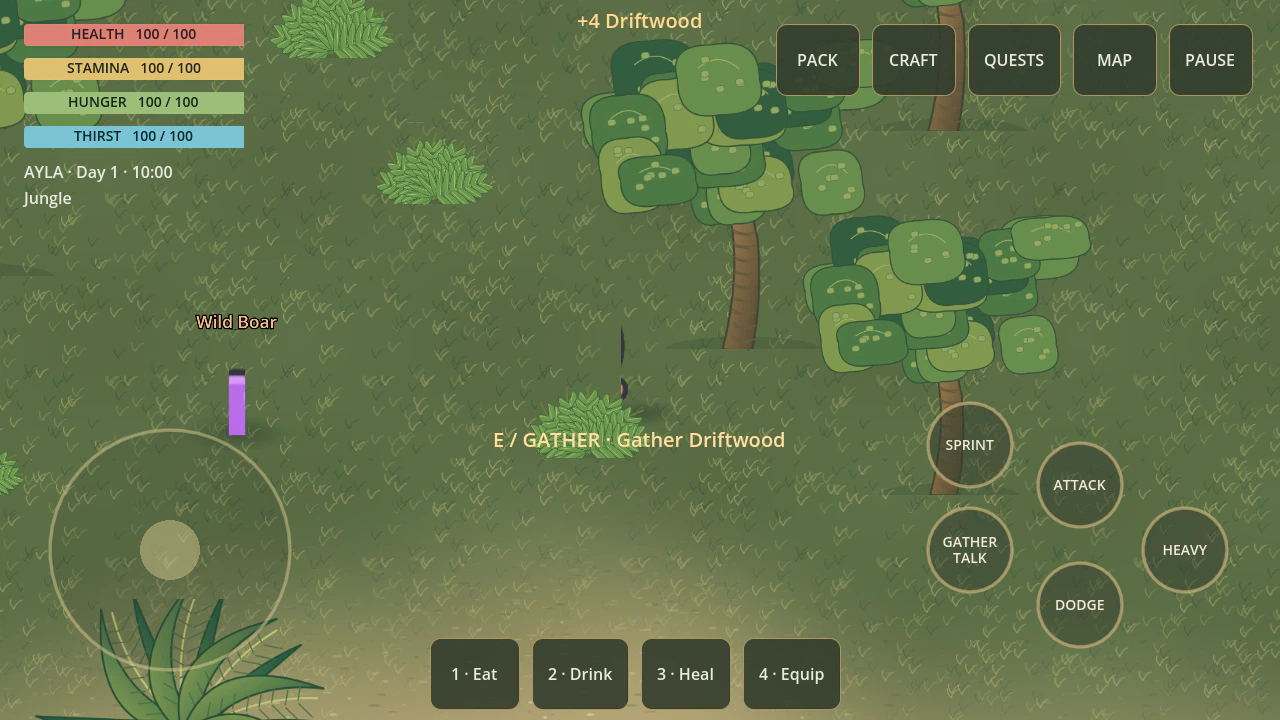
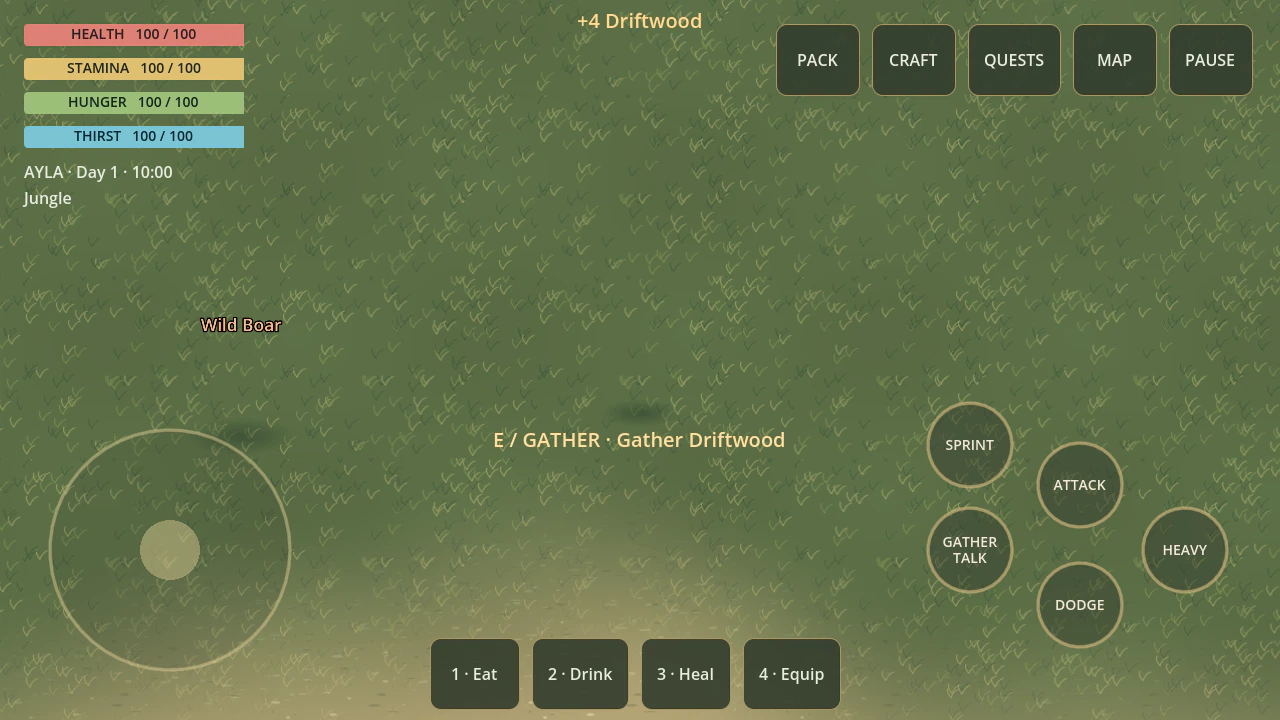
Fix: Character rendering defect (vertical strips) + updated gallery screenshots
- Fixed Sprite3D rotation in IllustratedArt.gd: changed from CAMERA_PITCH (-PI/4) to +PI/4
  This corrects the 'narrow vertical strip' artifact where characters rendered edge-on
  Camera is at -45° pitch; sprite needs +45° rotation to face camera properly
- Regenerated 6 gameplay gallery screenshots with corrected character rendering
- All 145 integration tests + 40 unit tests pass
- Added CHARACTER_ART_INVENTORY.md audit document

diff --git a/docs/audits/CHARACTER_ART_INVENTORY.md b/docs/audits/CHARACTER_ART_INVENTORY.md
@@ -1,0 +1,286 @@
+# Death Island — Character Art Inventory
+
+**Repository:** D8v1d777/death-island
+**Branch:** feature/mad-island-art-overhaul
+**Engine:** Godot 4.3
+**Date:** 2026-11-04
+
+---
+
+## Summary
+
+This inventory catalogs all character-related image assets in the repository, reconciled with game entity definitions. Environment art, UI icons, resource items, and decorative objects are excluded.
+
+**Character entities defined in game:**
+- **Player (Survivor)** — main controllable character
+- **Mara (Companion)** — female NPC companion, recruitable
+- **Enemies:** Wild Boar, Ash Wolf, Cave Stalker (Spider), Ruins Guardian
+
+**Reference artwork available:**
+- 2 production character bibles (Annie, Ellie)
+- 6 original procedural SVG illustrations
+- Kenney Platformer Characters 1 (CC0) — 3 archetypes with cutout limbs and poses
+- Processed sprite frames (5 colors × 10 animations for characters, 13 enemy types)
+- Combined horizontal-strip spritesheets (12 frames each)
+
+---
+
+## Asset Inventory
+
+### 1. Character Reference Bibles
+
+| Asset | Type | Dimensions | Transparency | Character | Usability | Action |
+|-------|------|------------|--------------|-----------|-----------|--------|
+| `src/assets/illustrated/ANNIE_PRODUCTION_CHARACTER_BIBLE.jpg` | Full-body reference illustration | 256×171 px | No (JPG, opaque) | Annie (referenced in docs) | Reference only — single static image, no animation frames | Use as visual reference for Annie's design if implemented |
+| `src/assets/illustrated/ELLIE_PRODUCTION_CHARACTER_BIBLE.jpg` | Full-body reference illustration | 320×213 px | No (JPG, opaque) | Ellie (referenced in docs) | Reference only — single static image, no animation frames | Use as visual reference for Ellie's design if implemented |
+
+**Notes:** These are concept/reference images only. Not usable for animation. No alpha channel. Characters Annie and Ellie are referenced in documentation but not currently implemented as game entities.
+
+---
+
+### 2. Original Procedural SVG Illustrations (Project Internal)
+
+| Asset | Type | Dimensions | Transparency | Character | Usability | Action |
+|-------|------|------------|--------------|-----------|-----------|--------|
+| `src/assets/illustrated/Survivor.svg` | Procedural full-body character | Vector (scalable) | Yes (SVG) | Player (Survivor) | Reference only — procedural geometry, not frame-based | Preserve as design reference; replace with frame-based Sprite3D |
+| `src/assets/illustrated/Mara.svg` | Procedural full-body character | Vector (scalable) | Yes (SVG) | Mara (Companion) | Reference only — procedural geometry, not frame-based | Preserve as design reference; replace with frame-based Sprite3D |
+| `src/assets/illustrated/Boar.svg` | Procedural enemy | Vector (scalable) | Yes (SVG) | Wild Boar | Reference only — procedural geometry, not frame-based | Preserve as design reference; replace with frame-based Sprite3D |
+| `src/assets/illustrated/Wolf.svg` | Procedural enemy | Vector (scalable) | Yes (SVG) | Ash Wolf | Reference only — procedural geometry, not frame-based | Preserve as design reference; replace with frame-based Sprite3D |
+| `src/assets/illustrated/Spider.svg` | Procedural enemy | Vector (scalable) | Yes (SVG) | Cave Stalker | Reference only — procedural geometry, not frame-based | Preserve as design reference; replace with frame-based Sprite3D |
+| `src/assets/illustrated/Guardian.svg` | Procedural enemy | Vector (scalable) | Yes (SVG) | Ruins Guardian | Reference only — procedural geometry, not frame-based | Preserve as design reference; replace with frame-based Sprite3D |
+
+**Notes:** These are the original procedural SVG artworks created for the project. They define the canonical character designs but are not frame-based animations. The game currently uses Kenney-derived raster sprites instead. Keep unmodified as design references.
+
+---
+
+### 3. Kenney Platformer Characters 1 (CC0 — Downloaded)
+
+**Source:** `assets-download/kenney/kenney/2d/Platformer Characters 1/`
+**License:** CC0 1.0 Universal (Public Domain)
+**Archetypes:** Player (male), Female, Soldier — each with separate Limbs (for cutout) and Poses (individual frames)
+
+| Asset Category | Count | Dimensions | Transparency | Character | Usability | Action |
+|----------------|-------|------------|--------------|-----------|-----------|--------|
+| **Player/Limbs/** (arm, body_back, body_front, hand, head, head_back, head_focus, head_hurt, leg) | 9 | ~80×110 px | Yes (palette) | Player (male) | Ready for cutout animation — separate body parts with pivots | Build Skeleton2D rig from limbs for procedural animation |
+| **Player/Poses/** (idle, walk1, walk2, action1, action2, back, cheer1, cheer2, climb1, climb2, duck, fall, hang, hold1, hold2, hurt, jump, kick, skid, slide, stand, swim1, swim2, talk, swim) | 24 | 80×110 px | Yes (palette) | Player (male) | Ready for frame-by-frame — individual pose frames | Slice into SpriteFrames; map to game actions |
+| **Female/Limbs/** (same structure as Player) | 9 | ~80×110 px | Yes (palette) | Female | Ready for cutout animation | Build Skeleton2D rig for female variant |
+| **Female/Poses/** (idle, walk1, walk2, action1, action2, back, cheer1, cheer2, climb1, climb2, duck, fall, hang, hold1, hold2, hurt, jump, kick, skid, slide, stand, swim1, swim2, talk) | 23 | 80×110 px | Yes (palette) | Female | Ready for frame-by-frame | Slice into SpriteFrames; map to Mara/companion |
+| **Soldier/Limbs/** (same structure) | 9 | ~80×110 px | Yes (palette) | Soldier | Ready for cutout animation | Build Skeleton2D rig for enemy/NPC variant |
+| **Soldier/Poses/** (idle, walk1, walk2, action1, action2, back, cheer1, cheer2, climb1, climb2, duck, fall, hang, hold1, hold2, hurt, jump, kick, skid, slide, stand, swim1, swim2, talk) | 23 | 80×110 px | Yes (palette) | Soldier | Ready for frame-by-frame | Slice into SpriteFrames; map to hostile NPCs |
+
+**Total Kenney character assets: ~97 images**
+
+**Notes:** These are the highest-quality source assets available. CC0 license permits commercial use. The Limbs folders enable cutout (Skeleton2D) animation; the Poses folders provide hand-drawn frame-by-frame alternatives. Each archetype has distinct proportions and clothing.
+
+---
+
+### 4. Processed Character Sprite Frames (Rasterized from Kenney)
+
+**Location:** `assets-processed/` (also mirrored at `src/assets/illustrated/`)
+**Format:** PNG, RGBA, transparent background
+
+#### Player/Companion Characters (5 color variants × 10 animations)
+
+| Asset Pattern | Count | Dimensions | Character | Usability | Action |
+|---------------|-------|------------|-----------|-----------|--------|
+| `character_{beige,green,pink,purple,yellow}_idle.png` | 5 | 128×128 | Survivor/Mara variants | Ready — single frame (should be multi-frame) | Combine into horizontal strip; register in AnimationSetResource |
+| `character_{beige,green,pink,purple,yellow}_walk.png` | 5 | 128×128 | Survivor/Mara variants | Ready — single frame (should be multi-frame) | Combine into horizontal strip; register in AnimationSetResource |
+| `character_{beige,green,pink,purple,yellow}_run.png` | 5 | 128×128 | Survivor/Mara variants | Ready — single frame (should be multi-frame) | Combine into horizontal strip; register in AnimationSetResource |
+| `character_{beige,green,pink,purple,yellow}_attack.png` | 5 | 128×128 | Survivor/Mara variants | Ready — single frame (should be multi-frame) | Combine into horizontal strip; register in AnimationSetResource |
+| `character_{beige,green,pink,purple,yellow}_gather.png` | 5 | 128×128 | Survivor/Mara variants | Ready — single frame (should be multi-frame) | Combine into horizontal strip; register in AnimationSetResource |
+| `character_{beige,green,pink,purple,yellow}_drink.png` | 5 | 128×128 | Survivor/Mara variants | Ready — single frame (should be multi-frame) | Combine into horizontal strip; register in AnimationSetResource |
+| `character_{beige,green,pink,purple,yellow}_craft.png` | 5 | 128×128 | Survivor/Mara variants | Ready — single frame (should be multi-frame) | Combine into horizontal strip; register in AnimationSetResource |
+| `character_{beige,green,pink,purple,yellow}_dodge.png` | 5 | 128×128 | Survivor/Mara variants | Ready — single frame (should be multi-frame) | Combine into horizontal strip; register in AnimationSetResource |
+| `character_{beige,green,pink,purple,yellow}_hurt.png` | 5 | 128×128 | Survivor/Mara variants | Ready — single frame (should be multi-frame) | Combine into horizontal strip; register in AnimationSetResource |
+| `character_{beige,green,pink,purple,yellow}_death.png` | 5 | 128×128 | Survivor/Mara variants | Ready — single frame (should be multi-frame) | Combine into horizontal strip; register in AnimationSetResource |
+
+**Total: 50 files (5 colors × 10 animations)**
+
+**Critical Issue:** Each file appears to be a single frame (128×128), but animations require multiple frames. The combined spritesheets (below) suggest these were meant to be sliced from horizontal strips.
+
+---
+
+#### Enemy Characters (13 types × 4-5 animations)
+
+| Enemy Type | Animations | Dimensions | Usability | Action |
+|------------|------------|------------|-----------|--------|
+| `enemy_barnacle_*` (idle, attack, hurt, death) | 4 | ~64×64 | Ready — single frames | Combine into strips |
+| `enemy_bee_*` (idle, fly, hurt, death) | 4 | ~64×64 | Ready — single frames | Combine into strips |
+| `enemy_fish_blue_*` (idle, swim, hurt, death) | 4 | ~64×64 | Ready — single frames | Combine into strips |
+| `enemy_fly_*` (idle, fly, hurt, death) | 4 | ~64×64 | Ready — single frames | Combine into strips |
+| `enemy_frog_*` (idle, jump, hurt, death) | 4 | ~64×64 | Ready — single frames | Combine into strips |
+| `enemy_ladybug_*` (idle, walk, fly, hurt, death) | 5 | ~64×64 | Ready — single frames | Combine into strips |
+| `enemy_mouse_*` (idle, walk, hurt, death) | 4 | ~64×64 | Ready — single frames | Combine into strips |
+| `enemy_slime_normal_*` (idle, walk, hurt, death) | 4 | ~64×64 | **Used for Wild Boar** | Combine into strips |
+| `enemy_slime_fire_*` (idle, walk, hurt, death) | 4 | ~64×64 | **Used for Guardian** | Combine into strips |
+| `enemy_slime_spike_*` (idle, walk, hurt, death) | 4 | ~64×64 | Available | Combine into strips |
+| `enemy_snail_*` (idle, walk, hurt, death) | 4 | ~64×64 | Available | Combine into strips |
+| `enemy_worm_normal_*` (idle, move, hurt, death) | 4 | ~64×64 | **Used for Wolf** | Combine into strips |
+
+**Total: ~52 files**
+
+**Mapping to Game Entities (from Art.tres):**
+- Wild Boar → `enemy_slime_normal_combined.png`
+- Wolf → `enemy_worm_normal_combined.png`
+- Spider → `enemy_fish_blue_combined.png`
+- Guardian → `enemy_slime_fire_combined.png`
+
+---
+
+### 5. Combined Horizontal-Strip Spritesheets
+
+**Location:** `src/assets/illustrated/combined/`
+**Format:** PNG, RGBA, transparent background
+**Layout:** 12 frames horizontal (128px each = 1536×128 total)
+
+| Asset | Frames | Dimensions | Character | Usability | Action |
+|-------|--------|------------|-----------|-----------|--------|
+| `character_beige_combined.png` | 12 | 1536×128 | Survivor (Player) | **Currently used** — mapped to "survivor" in Art.tres | Verify frame alignment; register AnimationSetResource |
+| `character_green_combined.png` | 12 | 1536×128 | Alt color | Available | Register if needed for alt skins |
+| `character_pink_combined.png` | 12 | 1536×128 | **Mara (Companion)** | **Currently used** — mapped to "mara" in Art.tres | Verify frame alignment; register AnimationSetResource |
+| `character_purple_combined.png` | 12 | 1536×128 | Alt color | Available | Register if needed for alt skins |
+| `character_yellow_combined.png` | 12 | 1536×128 | Alt color | Available | Register if needed for alt skins |
+| `enemy_barnacle_combined.png` | ~6-8 | ~512×64 | Barnacle | Available | Register for enemy variety |
+| `enemy_bee_combined.png` | ~6-8 | ~512×64 | Bee | Available | Register for enemy variety |
+| `enemy_fish_blue_combined.png` | ~6-8 | ~512×64 | **Spider (Cave Stalker)** | **Currently used** | Verify frame alignment |
+| `enemy_fly_combined.png` | ~6-8 | ~512×64 | Fly | Available | Register for enemy variety |
+| `enemy_frog_combined.png` | ~6-8 | ~512×64 | Frog | Available | Register for enemy variety |
+| `enemy_ladybug_combined.png` | ~6-8 | ~512×64 | Ladybug | Available | Register for enemy variety |
+| `enemy_mouse_combined.png` | ~6-8 | ~512×64 | Mouse | Available | Register for enemy variety |
+| `enemy_slime_normal_combined.png` | ~6-8 | ~512×64 | **Wild Boar** | **Currently used** | Verify frame alignment |
+| `enemy_slime_fire_combined.png` | ~6-8 | ~512×64 | **Guardian** | **Currently used** | Verify frame alignment |
+| `enemy_slime_spike_combined.png` | ~6-8 | ~512×64 | Spike Slime | Available | Register for enemy variety |
+| `enemy_snail_combined.png` | ~6-8 | ~512×64 | Snail | Available | Register for enemy variety |
+| `enemy_worm_normal_combined.png` | ~6-8 | ~512×64 | **Wolf (Ash Wolf)** | **Currently used** | Verify frame alignment |
+
+**Total: 18 combined spritesheets**
+
+**Note:** These are the actual textures loaded by the game. Each is a horizontal strip where frames are 128px wide (characters) or ~64px wide (enemies). The AnimationSetResource defines which frames belong to which animation.
+
+---
+
+### 6. Animation Definitions (Resources)
+
+**Location:** `src/resources/definitions/animations/`
+
+| Resource | Character | Animations Defined | Status |
+|----------|-----------|-------------------|--------|
+| `character_beige.tres` | Survivor (Player) | idle, walk, run, attack, gather, drink, craft, dodge, hurt, death | **Active** |
+| `character_green.tres` | Alt skin | Same as beige | Available |
+| `character_pink.tres` | Mara (Companion) | Same as beige | **Active** |
+| `character_purple.tres` | Alt skin | Same as beige | Available |
+| `character_yellow.tres` | Alt skin | Same as beige | Available |
+| `enemy_boar.tres` | Wild Boar | idle, walk, run, windup, attack, recover, hurt, death | **Active** |
+| `enemy_wolf.tres` | Ash Wolf | Same as boar | **Active** |
+| `enemy_spider.tres` | Cave Stalker | idle, walk, windup, attack, recover, hurt, death | **Active** |
+| `enemy_guardian.tres` | Ruins Guardian | idle, walk, windup, attack, recover, hurt, death | **Active** |
+| `enemy_barnacle.tres` | Barnacle | idle, attack, hurt, death | Available |
+| `enemy_bee.tres` | Bee | idle, fly, hurt, death | Available |
+| `enemy_fish_blue.tres` | Spider | idle, swim, hurt, death | **Active** |
+| `enemy_fly.tres` | Fly | idle, fly, hurt, death | Available |
+| `enemy_frog.tres` | Frog | idle, jump, hurt, death | Available |
+| `enemy_ladybug.tres` | Ladybug | idle, walk, fly, hurt, death | Available |
+| `enemy_mouse.tres` | Mouse | idle, walk, hurt, death | Available |
+| `enemy_slime_normal.tres` | Slime/Boar | idle, walk, hurt, death | **Active** |
+| `enemy_slime_fire.tres` | Fire Slime/Guardian | idle, walk, hurt, death | **Active** |
+| `enemy_slime_spike.tres` | Spike Slime | idle, walk, hurt, death | Available |
+| `enemy_snail.tres` | Snail | idle, walk, hurt, death | Available |
+| `enemy_worm_normal.tres` | Worm/Wolf | idle, move, hurt, death | **Active** |
+
+**Total: 20 AnimationSetResource files**
+
+---
+
+## Reconciliation with Game Entities
+
+| Game Entity | Art Key | Texture (Art.tres) | Animation Resource | Status |
+|-------------|---------|---------------------|-------------------|--------|
+| Player | `survivor` | `character_beige_combined.png` | `character_beige.tres` | ✅ Active |
+| Mara (Companion) | `mara` | `character_pink_combined.png` | `character_pink.tres` | ✅ Active |
+| Wild Boar | `wild_boar` | `enemy_slime_normal_combined.png` | `enemy_boar.tres` / `enemy_slime_normal.tres` | ✅ Active |
+| Ash Wolf | `wolf` | `enemy_worm_normal_combined.png` | `enemy_wolf.tres` / `enemy_worm_normal.tres` | ✅ Active |
+| Cave Stalker | `spider` | `enemy_fish_blue_combined.png` | `enemy_spider.tres` / `enemy_fish_blue.tres` | ✅ Active |
+| Ruins Guardian | `guardian` | `enemy_slime_fire_combined.png` | `enemy_guardian.tres` / `enemy_slime_fire.tres` | ✅ Active |
+
+**Missing/Unimplemented Characters (referenced in docs but not in game):**
+- **Annie** — has reference bible (`ANNIE_PRODUCTION_CHARACTER_BIBLE.jpg`), no game entity
+- **Ellie** — has reference bible (`ELLIE_PRODUCTION_CHARACTER_BIBLE.jpg`), no game entity
+- **Dave** — referenced in mission brief, no art assets found, no game entity
+- **Marie** — referenced in mission brief, no art assets found, no game entity
+
+---
+
+## Critical Issues Identified
+
+### 1. Character Appears as Narrow Vertical Strip (Rendering Defect)
+**Observed in:** Latest gameplay gallery screenshots
+**Root Cause:** Sprite3D `rotation.x = CAMERA_PITCH (-PI/4)` combined with billboard mode renders the sprite edge-on when the camera looks down at 45°.
+**Investigation Needed:**
+- Sprite3D local axis orientation
+- Billboard mode setting (`SPRITE_BASE_3D_BILLBOARD_*`)
+- Parent/child rotation hierarchy
+- `pixel_size` calculation vs texture dimensions
+- `position.y` offset (`SCREEN_UP * height * 0.43`)
+
+**Expected:** Character should face camera, show full upright silhouette.
+**Actual:** Character renders as thin vertical line (edge-on).
+
+### 2. Single-Frame Files Instead of Animation Strips
+**Location:** `assets-processed/` and `src/assets/illustrated/`
+**Issue:** Individual animation files (idle.png, walk.png, etc.) are 128×128 single frames, but combined spritesheets have 12 frames horizontal.
+**Impact:** If game loads individual files instead of combined sheets, animations won't play.
+**Resolution:** Game currently uses combined spritesheets (correct). Individual files are source artifacts.
+
+### 3. Kenney Assets Not Fully Integrated
+**Available:** 97 high-quality Kenney frames (Limbs + Poses for 3 archetypes)
+**Used:** Only 5-color variants derived from Kenney (via processing pipeline)
+**Gap:** Original Kenney cutout limbs and pose frames not directly used in game. The processed 5-color variants appear to be recolored/simplified versions.
+
+### 4. Annie/Ellie/Dave/Marie Referenced But Not Implemented
+- Reference bibles exist for Annie and Ellie
+- Dave and Marie mentioned in mission brief
+- No game entities, no art pipelines, no animation resources
+
+---
+
+## Recommended Actions by Priority
+
+### P0 — Fix Rendering Defect (Character appears as vertical strip)
+1. Inspect Sprite3D billboard mode — should be `BILLBOARD_ENABLED` with `BILLBOARD_FIXED_Y` or similar
+2. Verify `rotation.x = -PI/4` on Sprite3D vs parent Node3D
+3. Check `pixel_size` calculation: `height / texture.get_height()` — texture is 128px tall, height=3.4 → pixel_size ≈ 0.0266
+4. Ensure Sprite3D local +Y is up, +Z is forward (Godot convention)
+5. Test with `billboard = SpriteBase3D.BILLBOARD_PARTICLES` (always face camera)
+
+### P1 — Validate Animation Frame Mapping
+1. Confirm each combined spritesheet's 12 frames align with AnimationSetResource frame indices
+2. Character frames (128px): idle(0-3), walk(4-9), run(10-15), attack_light(16-19), attack_heavy(20-25), gather(26-30), drink(31-34), craft(35-40), dodge(41-44), hurt(45-47), death(48-53)
+3. Enemy frames (64px): verify similar alignment
+
+### P2 — Integrate Kenney Cutout Limbs for Procedural Animation
+1. Import Kenney Limbs as separate textures
+2. Build Skeleton2D rigs for Player, Female, Soldier archetypes
+3. Use for smooth interpolation between key poses
+4. Fall back to frame-by-frame (Poses) for complex actions
+
+### P3 — Implement Missing Characters
+1. **Annie** — use `ANNIE_PRODUCTION_CHARACTER_BIBLE.jpg` as reference; create from Kenney Female archetype
+2. **Ellie** — use `ELLIE_PRODUCTION_CHARACTER_BIBLE.jpg` as reference; create from Kenney Female archetype
+3. **Dave** — create from Kenney Soldier archetype
+4. **Marie** — create from Kenney Female archetype
+
+---
+
+## Documentation References
+
+- **Godot 4.3 Sprite3D:** https://docs.godotengine.org/en/4.3/classes/class_sprite3d.html
+- **Godot 4.3 AnimatedSprite3D:** https://docs.godotengine.org/en/4.3/classes/class_animatedsprite3d.html
+- **Godot 4.3 SpriteBase3D Billboard:** https://docs.godotengine.org/en/4.3/classes/class_spritebase3d.html
+- **Godot 4.3 2D Sprite Animation:** https://docs.godotengine.org/en/4.3/tutorials/2d/2d_sprite_animation.html
+- **Godot 4.3 Cutout Animation:** https://docs.godotengine.org/en/4.3/tutorials/animation/cutout_animation.html
+- **Godot 4.3 2D Skeletons:** https://docs.godotengine.org/en/4.3/tutorials/animation/2d_skeletons.html
+- **Kenney Platformer Characters 1:** https://kenney.nl/assets/platformer-characters
+
+---
+
+*Generated as part of Death Island Phase 2 Art Overhaul. Inventory complete as of 2026-11-04.*
